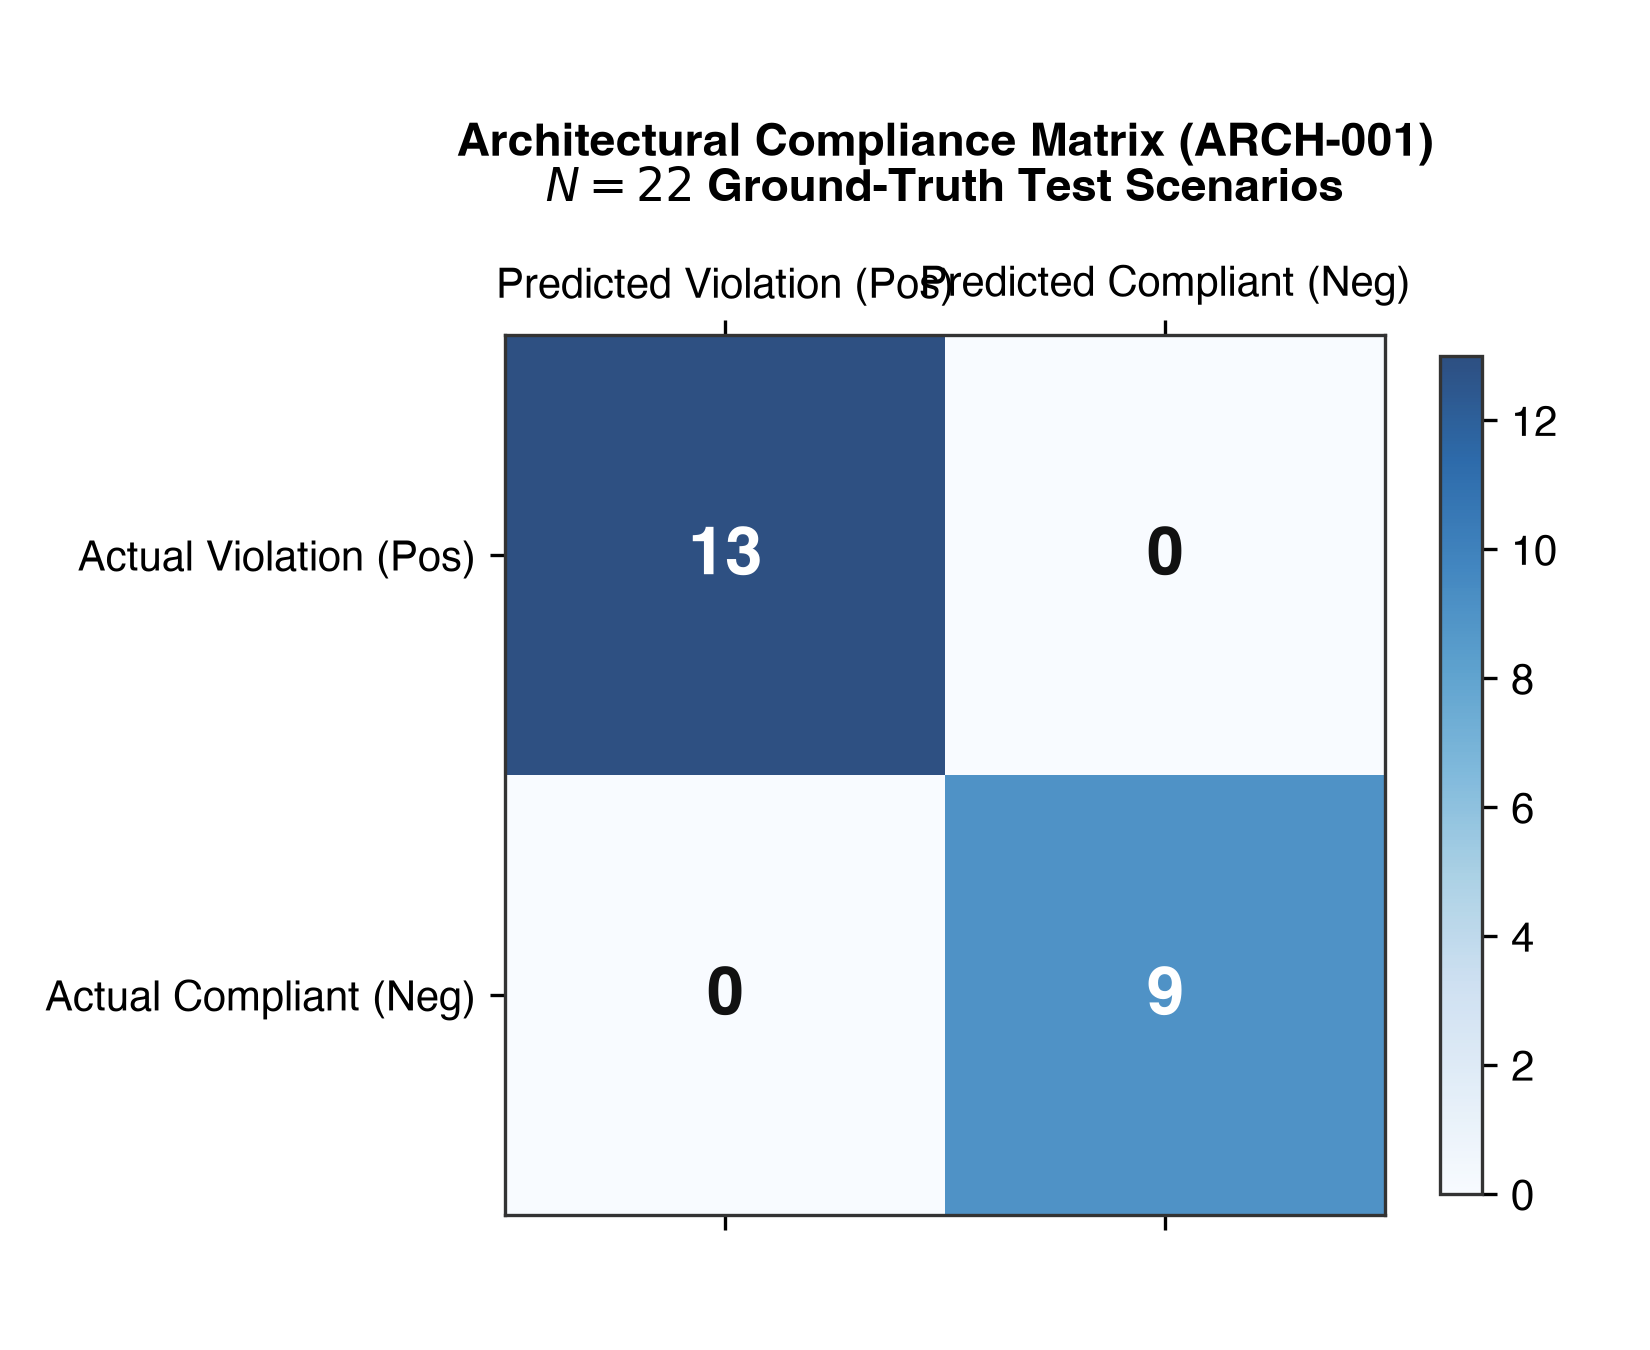
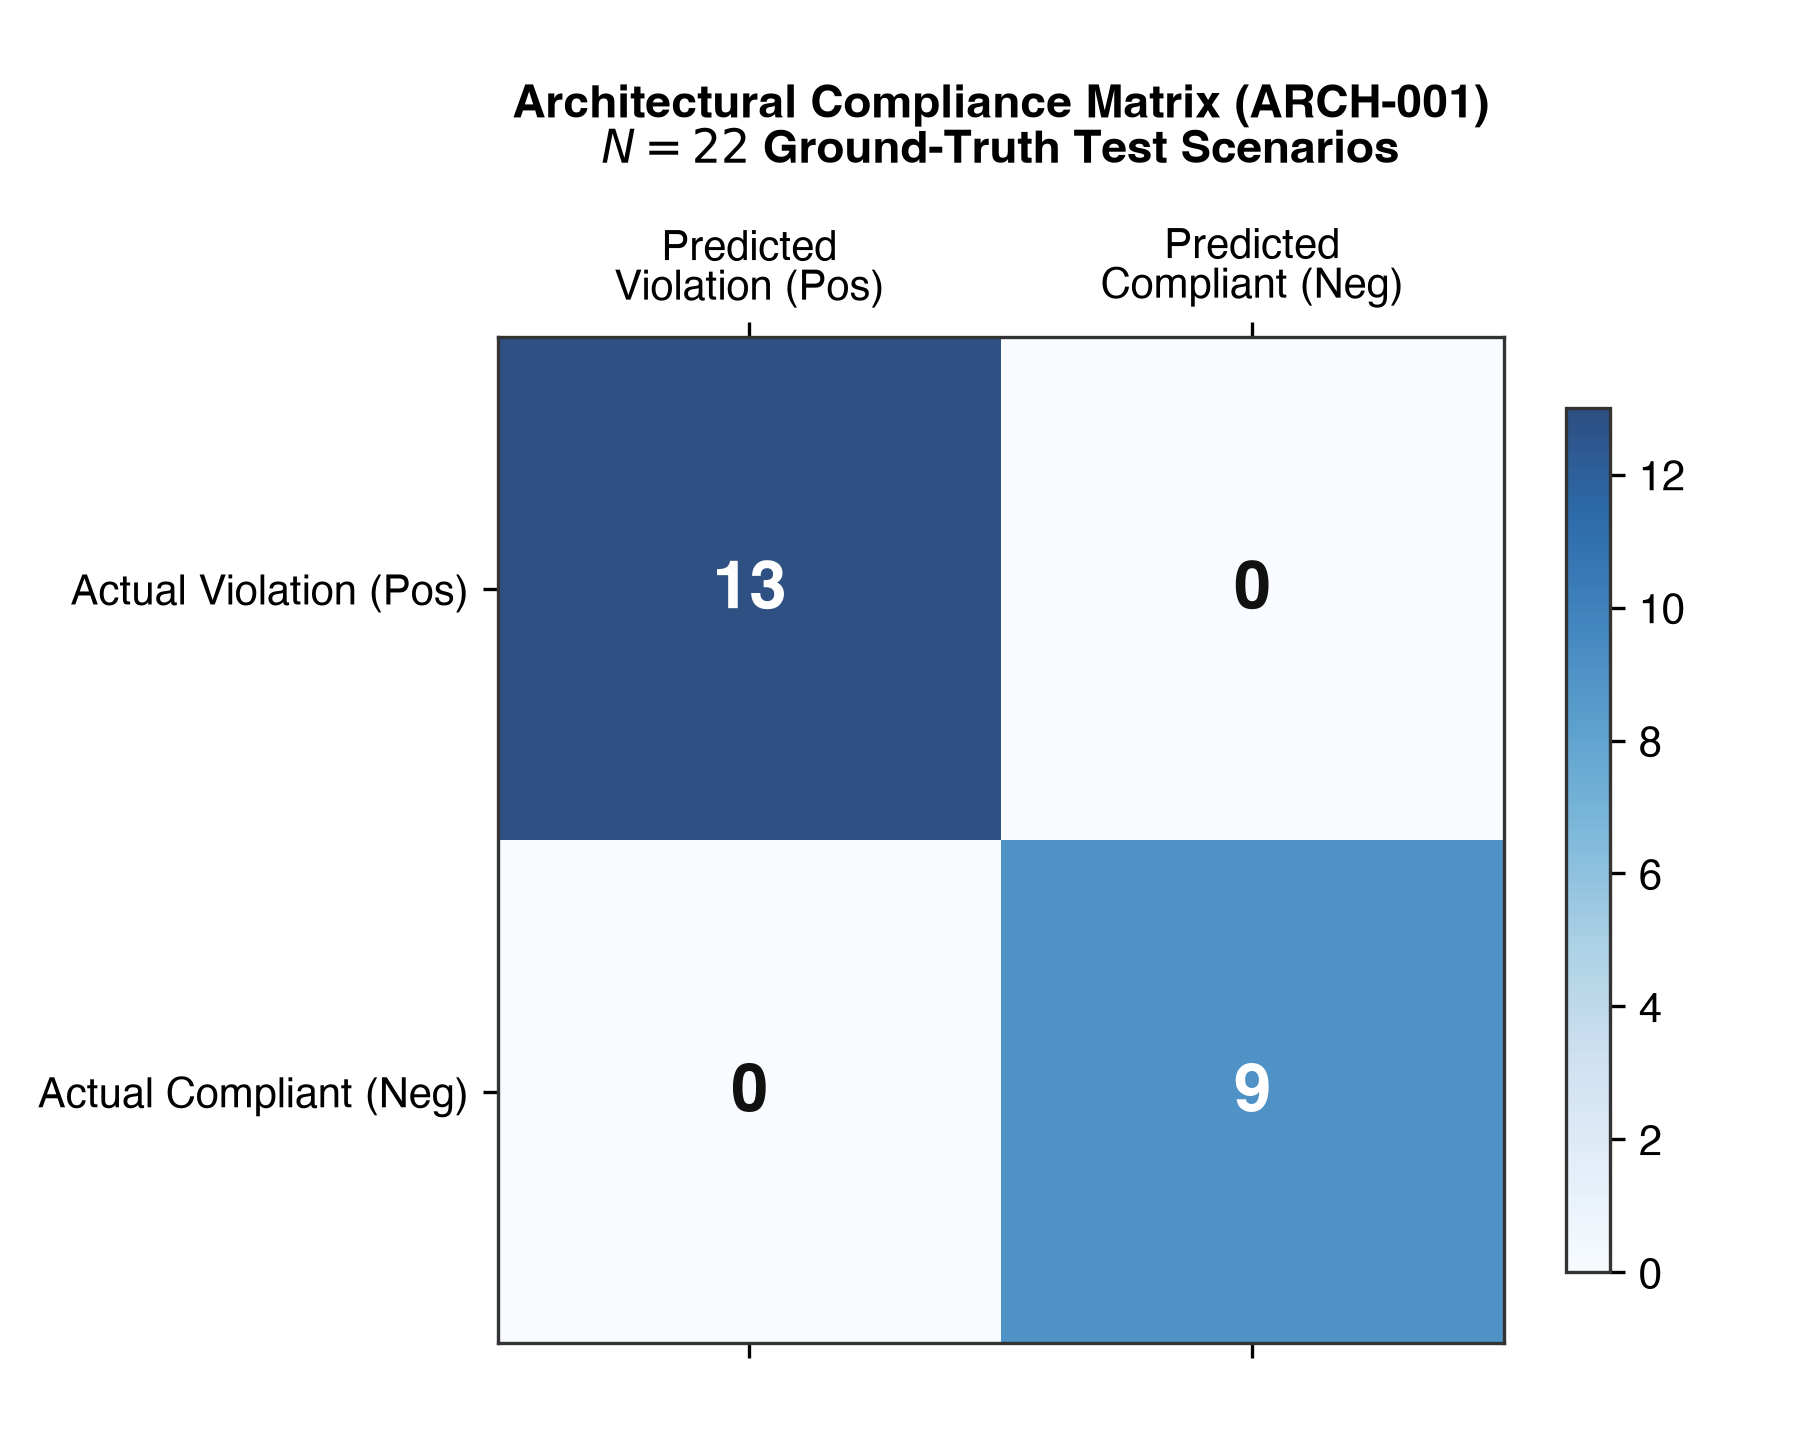
Fix overlapping column headers in the architecture confusion-matrix figure

diff --git a/eval/generate_publication_artifacts.py b/eval/generate_publication_artifacts.py
@@ -184,7 +184,7 @@ def generate_publication_figures(
         [cm["fp"], cm["tn"]],
     ])
 
-    fig, ax = plt.subplots(figsize=(5.5, 4.5), dpi=300)
+    fig, ax = plt.subplots(figsize=(6.0, 4.8), dpi=300)
     cax = ax.matshow(matrix, cmap="Blues", alpha=0.85)
 
     for i in range(2):
@@ -195,7 +195,7 @@ def generate_publication_figures(
 
     ax.set_xticks([0, 1])
     ax.set_yticks([0, 1])
-    ax.set_xticklabels(["Predicted Violation (Pos)", "Predicted Compliant (Neg)"], fontsize=10)
+    ax.set_xticklabels(["Predicted\nViolation (Pos)", "Predicted\nCompliant (Neg)"], fontsize=10)
     ax.set_yticklabels(["Actual Violation (Pos)", "Actual Compliant (Neg)"], fontsize=10)
     ax.set_title("Architectural Compliance Matrix (ARCH-001)\n$N=22$ Ground-Truth Test Scenarios", fontsize=11, pad=15, fontweight="bold")
     fig.colorbar(cax, shrink=0.8)
